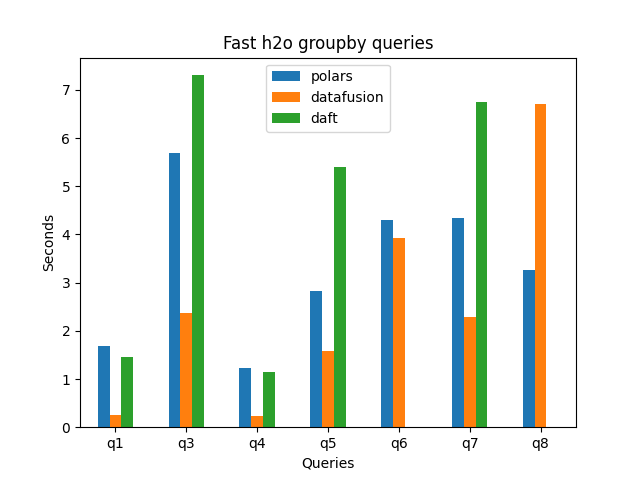
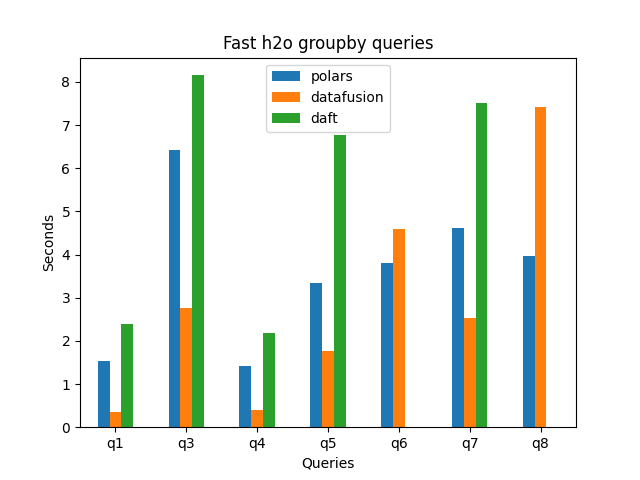
update groupby query results

diff --git a/benchmarks/polars_h2o_groupby_queries.py b/benchmarks/polars_h2o_groupby_queries.py
@@ -56,33 +56,35 @@ def q10(df):
         .collect()
     )
 
-def run_benchmarks(df):
+def run_benchmarks(dfs):
+    df = dfs[0]
     polars_benchmarks = {
         "duration": [],  # in seconds
         "task": [],
     }
 
-    benchmark(q1, df=df, benchmarks=polars_benchmarks, name="q1")
-    benchmark(q3, df=df, benchmarks=polars_benchmarks, name="q3")
-    benchmark(q4, df=df, benchmarks=polars_benchmarks, name="q4")
-    benchmark(q5, df=df, benchmarks=polars_benchmarks, name="q5")
-    benchmark(q6, df=df, benchmarks=polars_benchmarks, name="q6")
-    benchmark(q7, df=df, benchmarks=polars_benchmarks, name="q7")
-    benchmark(q8, df=df, benchmarks=polars_benchmarks, name="q8")
+    benchmark(q1, df, benchmarks=polars_benchmarks, name="q1")
+    benchmark(q3, df, benchmarks=polars_benchmarks, name="q3")
+    benchmark(q4, df, benchmarks=polars_benchmarks, name="q4")
+    benchmark(q5, df, benchmarks=polars_benchmarks, name="q5")
+    benchmark(q6, df, benchmarks=polars_benchmarks, name="q6")
+    benchmark(q7, df, benchmarks=polars_benchmarks, name="q7")
+    benchmark(q8, df, benchmarks=polars_benchmarks, name="q8")
 
     polars_res_temp = get_results(polars_benchmarks).set_index("task")
     return polars_res_temp
 
 
-def run_benchmarks_slow(df):
+def run_benchmarks_slow(dfs):
+    df = dfs[0]
     polars_benchmarks = {
         "duration": [],  # in seconds
         "task": [],
     }
 
-    benchmark(q2, df=df, benchmarks=polars_benchmarks, name="q2")
-    benchmark(q9, df=df, benchmarks=polars_benchmarks, name="q9")
-    benchmark(q10, df=df, benchmarks=polars_benchmarks, name="q10")
+    benchmark(q2, df, benchmarks=polars_benchmarks, name="q2")
+    benchmark(q9, df, benchmarks=polars_benchmarks, name="q9")
+    benchmark(q10, df, benchmarks=polars_benchmarks, name="q10")
 
     polars_res_temp = get_results(polars_benchmarks).set_index("task")
     return polars_res_temp

diff --git a/benchmarks/daft_h2o_groupby_queries.py b/benchmarks/daft_h2o_groupby_queries.py
@@ -45,33 +45,35 @@ def q10(df):
     return daft.sql("select id1, id2, id3, id4, id5, id6, sum(v3) as v3, count(*) as count from x group by id1, id2, id3, id4, id5, id6", catalog=SQLCatalog({"x": df})).collect()
 
 
-def run_benchmarks(df):
+def run_benchmarks(dfs):
+    df = dfs[0]
     benchmarks = {
         "duration": [],
         "task": [],
     }
 
-    benchmark(q1, df=df, benchmarks=benchmarks, name="q1")
-    benchmark(q3, df=df, benchmarks=benchmarks, name="q3")
-    benchmark(q4, df=df, benchmarks=benchmarks, name="q4")
-    benchmark(q5, df=df, benchmarks=benchmarks, name="q5")
-    # benchmark(q6, df=df, benchmarks=benchmarks, name="q6")
-    benchmark(q7, df=df, benchmarks=benchmarks, name="q7")
-    # benchmark(q8, df=df, benchmarks=benchmarks, name="q8")
+    benchmark(q1, df, benchmarks=benchmarks, name="q1")
+    benchmark(q3, df, benchmarks=benchmarks, name="q3")
+    benchmark(q4, df, benchmarks=benchmarks, name="q4")
+    benchmark(q5, df, benchmarks=benchmarks, name="q5")
+    # benchmark(q6, df, benchmarks=benchmarks, name="q6")
+    benchmark(q7, df, benchmarks=benchmarks, name="q7")
+    # benchmark(q8, df, benchmarks=benchmarks, name="q8")
 
     res = get_results(benchmarks).set_index("task")
     return res
 
 
-def run_benchmarks_slow(df):
+def run_benchmarks_slow(dfs):
+    df = dfs[0]
     benchmarks = {
         "duration": [],
         "task": [],
     }
 
-    benchmark(q2, df=df, benchmarks=benchmarks, name="q2")
-    # benchmark(q9, df=df, benchmarks=benchmarks, name="q9")
-    benchmark(q10, df=df, benchmarks=benchmarks, name="q10")
+    benchmark(q2, df, benchmarks=benchmarks, name="q2")
+    # benchmark(q9, df, benchmarks=benchmarks, name="q9")
+    benchmark(q10, df, benchmarks=benchmarks, name="q10")
 
     res = get_results(benchmarks).set_index("task")
     return res

diff --git a/benchmarks/run_all_groupby.py b/benchmarks/run_all_groupby.py
@@ -15,7 +15,7 @@ path = sys.argv[1]
 # polars
 print("*** Polars ***")
 df = pl.scan_parquet(path, low_memory=True)
-polars_res = polars_h2o_groupby_queries.run_benchmarks(df).rename(columns={"duration": "polars"})
+polars_res = polars_h2o_groupby_queries.run_benchmarks([df]).rename(columns={"duration": "polars"})
 print(polars_res)
 
 # datafusion
@@ -28,7 +28,7 @@ print(datafusion_res)
 # daft
 print("*** Daft ***")
 df = daft.read_parquet(path)
-daft_res = daft_h2o_groupby_queries.run_benchmarks(df).rename(columns={"duration": "daft"})
+daft_res = daft_h2o_groupby_queries.run_benchmarks([df]).rename(columns={"duration": "daft"})
 
 # all results
 res = polars_res.join(datafusion_res, on="task").join(daft_res, on="task")
@@ -45,7 +45,7 @@ ax.figure.savefig("images/groupby-fast.png")
 # polars
 print("*** Polars ***")
 df = pl.scan_parquet(path, low_memory=True)
-polars_res = polars_h2o_groupby_queries.run_benchmarks_slow(df).rename(columns={"duration": "polars"})
+polars_res = polars_h2o_groupby_queries.run_benchmarks_slow([df]).rename(columns={"duration": "polars"})
 print(polars_res)
 
 # datafusion
@@ -58,7 +58,7 @@ print(datafusion_res)
 # daft
 print("*** Daft ***")
 df = daft.read_parquet(path)
-daft_res = daft_h2o_groupby_queries.run_benchmarks_slow(df).rename(columns={"duration": "daft"})
+daft_res = daft_h2o_groupby_queries.run_benchmarks_slow([df]).rename(columns={"duration": "daft"})
 
 # all results
 res = polars_res.join(datafusion_res, on="task").join(daft_res, on="task")

diff --git a/benchmarks/datafusion_h2o_groupby_queries.py b/benchmarks/datafusion_h2o_groupby_queries.py
@@ -58,13 +58,13 @@ def run_benchmarks(ctx):
         "task": [],
     }
 
-    benchmark(q1, df=ctx, benchmarks=benchmarks, name="q1")
-    benchmark(q3, df=ctx, benchmarks=benchmarks, name="q3")
-    benchmark(q4, df=ctx, benchmarks=benchmarks, name="q4")
-    benchmark(q5, df=ctx, benchmarks=benchmarks, name="q5")
-    benchmark(q6, df=ctx, benchmarks=benchmarks, name="q6")
-    benchmark(q7, df=ctx, benchmarks=benchmarks, name="q7")
-    benchmark(q8, df=ctx, benchmarks=benchmarks, name="q8")
+    benchmark(q1, ctx, benchmarks=benchmarks, name="q1")
+    benchmark(q3, ctx, benchmarks=benchmarks, name="q3")
+    benchmark(q4, ctx, benchmarks=benchmarks, name="q4")
+    benchmark(q5, ctx, benchmarks=benchmarks, name="q5")
+    benchmark(q6, ctx, benchmarks=benchmarks, name="q6")
+    benchmark(q7, ctx, benchmarks=benchmarks, name="q7")
+    benchmark(q8, ctx, benchmarks=benchmarks, name="q8")
 
     res = get_results(benchmarks).set_index("task")
     return res
@@ -76,9 +76,9 @@ def run_benchmarks_slow(ctx):
         "task": [],
     }
 
-    benchmark(q2, df=ctx, benchmarks=benchmarks, name="q2")
-    # benchmark(q9, df=ctx, benchmarks=benchmarks, name="q9")
-    benchmark(q10, df=ctx, benchmarks=benchmarks, name="q10")
+    benchmark(q2, ctx, benchmarks=benchmarks, name="q2")
+    # benchmark(q9, ctx, benchmarks=benchmarks, name="q9")
+    benchmark(q10, ctx, benchmarks=benchmarks, name="q10")
 
     res = get_results(benchmarks).set_index("task")
     return res

diff --git a/benchmarks/daft_h2o_join_queries.py b/benchmarks/daft_h2o_join_queries.py
@@ -53,11 +53,11 @@ def run_benchmarks(dfs):
         "task": [],
     }
 
-    benchmark(q1, dfs=dfs, benchmarks=benchmarks, name="q1")
-    # benchmark(q2, df=x, benchmarks=benchmarks, name="q2")
-    # benchmark(q3, df=x, benchmarks=benchmarks, name="q3")
-    # benchmark(q4, df=x, benchmarks=benchmarks, name="q4")
-    # benchmark(q5, df=x, benchmarks=benchmarks, name="q5")
+    benchmark(q1, dfs, benchmarks=benchmarks, name="q1")
+    # benchmark(q2, x, benchmarks=benchmarks, name="q2")
+    # benchmark(q3, x, benchmarks=benchmarks, name="q3")
+    # benchmark(q4, x, benchmarks=benchmarks, name="q4")
+    # benchmark(q5, x, benchmarks=benchmarks, name="q5")
 
     res = get_results(benchmarks).set_index("task")
     return res

diff --git a/benchmarks/daft_h2o_groupby.py b/benchmarks/daft_h2o_groupby.py
@@ -7,7 +7,7 @@ path = sys.argv[1]
 
 df = daft.read_parquet(path)
 
-res = run_benchmarks(df)
+res = run_benchmarks(dfs)
 
 print("start")
 print(res)

diff --git a/benchmarks/polars_h2o_groupby.py b/benchmarks/polars_h2o_groupby.py
@@ -8,6 +8,6 @@ path = sys.argv[1]
 
 df = pl.scan_parquet(path, low_memory=True)
 
-res = run_benchmarks(df)
+res = run_benchmarks([df])
 
 print(res)

diff --git a/README.md b/README.md
@@ -147,6 +147,10 @@ It can unfortunately be hard to divide a query runtime into different compontent
 ## Run scripts
 
 ```
+uv run benchmarks/run_all_groupby.py /Users/matthewpowers/data/G1_1e8_1e2_0_0.parquet
+```
+
+```
 uv run benchmarks/datafusion_h2o_join.py /Users/matthewpowers/data/J1_1e7_NA_0_0.parquet /Users/matthewpowers/data/J1_1e7_1e1_0_0.parquet /Users/matthewpowers/data/J1_1e7_1e4_0_0.parquet /Users/matthewpowers/data/J1_1e7_1e7_0_0.parquet
 ```
 
